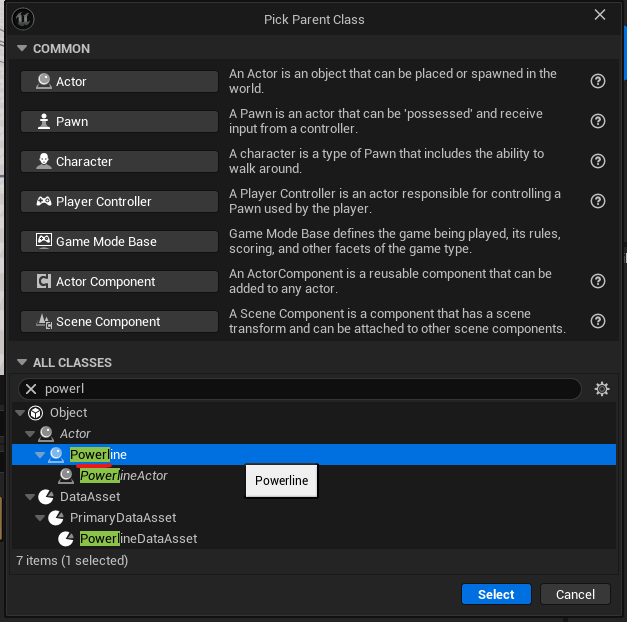
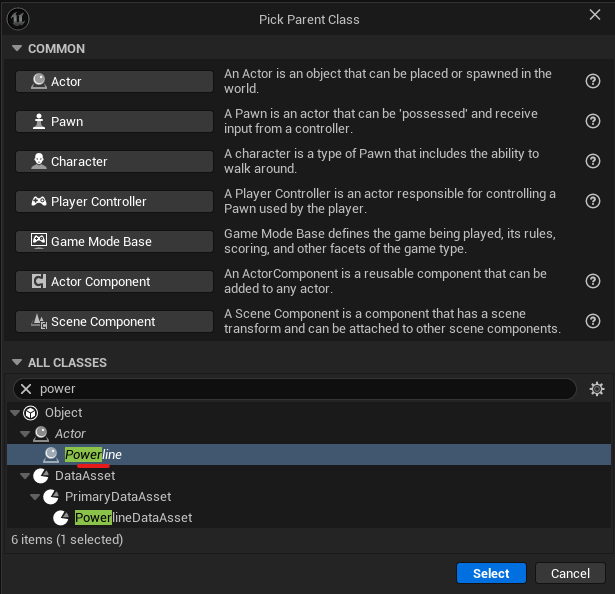
Update to 1.2 version. Finished about page. Added pipe tumbnail.

diff --git a/content/about.md b/content/about.md
@@ -6,4 +6,32 @@ width: full
 ---
 
 
-<!-- If you found any bugs, have any suggestions to improve, add new features or need a help, feel free to write them on  -->
+Hello 👋 I’m a solo game and tools developer working in Unreal Engine. The tools and plugins I create come from my journey of learning the engine while building toward an open-world game.
+
+Initially, I built these plugins in Blueprint. However, when I started using them in actual levels, I encountered responsiveness issues and longer loading times. This led me to shift focus from the open-world project itself to creating development tools that help other Unreal Engine developers build faster and more efficiently. Because these plugins contain a substantial amount of code, I rewrote them from Blueprint to C++ — a decision that also fit my comfort with coding in C++. The result is more performant, stable, and scalable tooling.
+
+
+🎮 In my free time, I develop mobile-first games, with hopes to release them in the near future. A big part of this process has been trial-and-error optimization for mobile within Unreal Engine—ensuring projects run well on a wide range of devices, including budget Android phones.
+
+{{< space 2 >}}
+
+💬 If you encounter bugs, have suggestions for improvements or new features, or just need help, feel free to reach out at:  
+[📩 Email](mailto:rightsofar143@gmail.com)
+
+---
+
+### Frequently Asked Questions 📌
+
+{{% details title="Why are the plugins written in C++ instead of Blueprint?" closed="true" %}}
+
+*   **Performance:** Blueprint execution in Construction Script became a bottleneck, especially with heavy math and iterative logic.
+*   **Editor Responsiveness:** With Blueprint, moving or adding spline points in the level caused noticeable editor lag. Disabling *“Run Construction Script on Drag”* was necessary just to maintain usability.
+*   **Scalability:** Some operations either required C++ or a Blueprint function library to be feasible at all.
+*   **Execution Overhead:** Each Blueprint node call adds overhead to the virtual machine. In loops with many operations, this could even hit Unreal Engine’s **Maximum Loop Iteration** limit.
+*   **Math-Intensive Operations:** The plugins involve significant real-time calculation, which is far more efficient in native code.
+
+{{% /details %}}
+
+
+
+

diff --git a/content/powerlines/actor/_index.md b/content/powerlines/actor/_index.md
@@ -2,7 +2,7 @@
 title: Actor
 type: docs
 weight: 2
-prev: powerlines/dataasset/
+prev: powerlines/getting-started
 next: connection
 
 resources:
@@ -52,6 +52,9 @@ Simply select the required data asset, and you are ready to build.
 | **Data Asset** | Powerline Default | The primary Data Asset containing pole meshes, materials, and other static configuration. |
 | **Stream** | Auto-generated | The random seed that drives all procedural randomness (pole variation, cable gravity, etc.) within the actor. |
 | **Closed Loop** | false | **Spline Component property.** When enabled, connects the last spline point to the first, forming a continuous loop. Requires at least 3 points. |
+| **Material Selection Type** | None | Determines how material presets are selected from the data asset.<br>• **None:** Disables material selection and application to the mesh.<br>• **Random:** Randomly selects a preset from the data asset and stores the index in the `PoleMaterialIndex` variable.<br>• **Manual:** Allows direct selection of a preset by index. |
+| **Pole Preset Index** | -1 | The index of the material preset applied to pole meshes. This is a cyclical index (any integer is valid).<br>A value less than 0 disables material selection and application. |
+
 
 ---
 
@@ -148,7 +151,7 @@ This debug view can significantly impact editor performance. Use it cautiously.
 
 ## Custom Powerline Actor
 
-The Powerline Actor included in the plugin is a simple Blueprint wrapper around the native C++ class. You can create your own custom actor by extending this native class to set your preferred default values.
+You can create your own custom actor by extending native powerline class to set your preferred default values and data asset.
 
 To create a custom powerline actor, follow these steps:
 

diff --git a/content/powerlines/dataasset/_index.md b/content/powerlines/dataasset/_index.md
@@ -2,7 +2,7 @@
 title: Data Asset
 type: docs
 weight: 3
-prev: getting-started
+prev: powerlines/actor/optimization
 next: changelog
 
 resources:
@@ -133,7 +133,7 @@ Position and orient the socket using the viewport manipulator or by entering pre
 | **Spline Mesh Axis** | X | **Spline Mesh only.** <br> Defines which local mesh axis aligns with the spline direction. |
 | **Cull Distance Start End** | 0,0 | **ISM and HISM only.**<br> Maximum cull(render) distances for an instanced pole mesh. X = start, Y = end. |
 | **Base Pole Yaw** | 0° | Global rotation applied to all poles around the vertical (Z) axis. <br> Useful for correcting imported meshes that are not oriented to the desired world alignment. |
-| **Pole Materials** | Empty | An array of materials to apply to the pole meshes. Each material's slot name must match a static mesh material slot. |
+| **Pole Material Presets** | Empty | An array of material presets. Each preset is itself an array of materials to apply to the pole meshes.<br> • Each material's slot name must match a static mesh material slot.<br>• This system allows switching between different materials (presets), each of which can configure one or more material slots on the mesh. |
 | **Pole Max Draw Distance** | 0 | Maximum render distance for pole meshes. Set to `0` for infinite draw distance. |
 | **Pole Collision Profile** | BlockAll | Physics collision profile assigned to pole meshes. |
 | **Generate Overlaps** | false | Enables overlap events for pole meshes when set to `true`. |

diff --git a/content/powerlines/changelog.md b/content/powerlines/changelog.md
@@ -5,6 +5,23 @@ weight: 10
 prev: /powerlines
 ---
 
+
+## Version 1.2
+
+### **Added**
+*   Custom billboard icon (editor-only).
+*   A default Data Asset for the native Powerline class.
+*   A `Mobility` setting to the Data Asset, which applies to all meshes to meet Unreal Engine's requirement for a root component.
+*   Material preset selection properties for pole meshes.
+
+### **Changed**
+*   Removed the `abstract` UCLASS specifier from the powerline class.
+*   Removed the Blueprint Actor wrapper; Powerline functionality is now native-only.
+*   Updated the overview level, replacing Blueprint-based powerline actors with native C++ instances.
+*   Upgraded from simple material assignments to a **Material Preset** system. This allows switching between various visual styles directly from the Data Asset in seconds.
+
+---
+
 ## Version 1.1
 
 ### **Added**
@@ -19,6 +36,8 @@ prev: /powerlines
 
 ### **Fixed**
  *   Fixed an issue with text location in the scaled text type.
+
+---
 
 ## Version 1.0
 

diff --git a/content/powerlines/actor/connection.md b/content/powerlines/actor/connection.md
@@ -42,7 +42,10 @@ For **Powerline** type connections, you can change the **Cable Connection Type**
 ### Connection Properties
 
 #### Show Text Type
-An editor-only visualization that displays spline point or pole index numbers.
+An editor-only visualization that displays spline point or pole index numbers. 
+{{< callout type="info" >}}
+Text components are marked as editor-only and stripped from shipping builds irrespective of their level placement.
+{{< /callout >}}
 *   **None:** Disables the debug text.
 *   **Scaled:** Text size scales with the pole's height and rotates with the pole.
 *   **Static:** Text remains a fixed size (100 units) and does not rotate with the spline or pole.

diff --git a/content/powerlines/getting-started.md b/content/powerlines/getting-started.md
@@ -45,9 +45,8 @@ If the plugin folder is not visible, ensure **Show Plugin Content** is enabled. 
 {{< /callout >}}
 
 #### Add a Powerline Actor to Your Level
-*   **Method A:** Drag and drop the **PowerlineActor** from the Content Browser into your level viewport.
-  {{< figure src="/powerlines/DragDrop_01.webp" alt="Drag drop from content" >}}
-*   **Method B:** Alternatively, type "powerline" into the **Place Actors** search bar and drag the actor from there.
+
+Type `powerline` into the **Place Actors** search bar and drag the actor from there into level.
   {{< figure src="/powerlines/DragDrop_02.webp" alt="Drag drop from place actors" >}}
 
 #### Edit the Spline

diff --git a/content/powerlines/actor/optimization.md b/content/powerlines/actor/optimization.md
@@ -7,7 +7,7 @@ next: powerlines/dataasset/
 
 This is an editor-only optimization that generates a static mesh in a specified folder to improve runtime performance.  
 {{< callout type="info" >}}
-If your cables remain *static* and do not update when you modify the spline, you likely have a merged static mesh active. Remove it first to regain editability.
+If cables remain *static* and do not update when you modify the spline, you likely have a merged static mesh active. Remove it first to regain editability.
 {{< /callout >}}
 
 ### Why bake to a static mesh?  

diff --git a/content/pipes/_index.md b/content/pipes/_index.md
@@ -1,11 +1,13 @@
 ---
-title: Pipe Flow 
+title: Pipe Builder 
 toc: false
 ---
 
 ## Under construction
-Documentation for Pipe flow plugin. 
+Documentation for Pipe Builder plugin. 
 
 {{< cards >}}
-  {{< card link="pipes-getting-started" title="Getting Started" icon="document-text" subtitle="Learn how to create website using Hextra" >}}
+  {{< card link="pipes-getting-started" title="Getting Started" icon="academic-cap" subtitle="Guide" >}}
+  {{< card link="pipes-changelog" title="Change Log" icon="document-text" subtitle="Log" >}}
 {{< /cards >}}
+

diff --git a/content/_index.md b/content/_index.md
@@ -17,13 +17,13 @@ width: full
     doc_icon="book-open" 
     prod_link="https://fab.com/s/245d9e48759f"
 >}}
-<!--   {{< widget-product
-    image="images/Powerlines.png"
-    doc_link="fencetool" 
+  {{< widget-product
+    image="images/Pipes.png"
+    doc_link="pipes" 
     doc_text="Documentation"
     doc_icon="book-open" 
     prod_link="https://example.com"
->}} -->
+>}}
 
 {{< /product-grid >}}
 

diff --git a/content/pipes/pipes-changelog.md b/content/pipes/pipes-changelog.md
@@ -1,0 +1,11 @@
+---
+title: Changelog
+type: docs
+weight: 10
+prev: /pipes
+---
+
+
+## Version 1.0
+
+* Initial realese. 

diff --git a/content/pipes/pipes-getting-started.md b/content/pipes/pipes-getting-started.md
@@ -3,6 +3,7 @@ title: Getting Started
 type: docs
 weight: 1
 prev: /pipes
+next: /pipes/actor
 ---
 
 A simple demo page.

diff --git a/content/pipes/actor/_index.md b/content/pipes/actor/_index.md
@@ -1,0 +1,7 @@
+---
+title: Actor
+type: docs
+weight: 2
+prev: pipes-getting-started
+next: pipes/dataasset
+---
